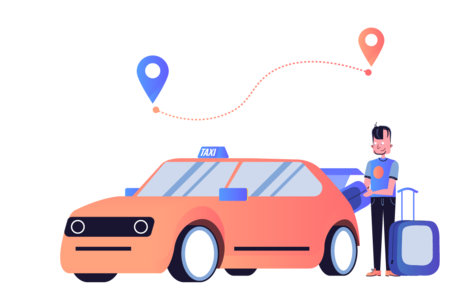
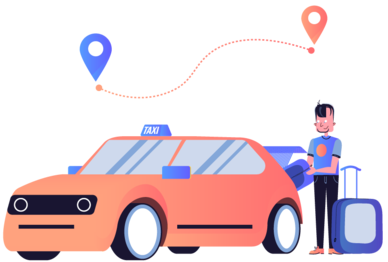
image size final2

diff --git a/index.html b/index.html
@@ -150,7 +150,7 @@
             <div class="row">
                 <div class="project shadow-large">
                     <div class="project-image">
-                        <img src="images/taxi.png" />
+                        <img src="images/cabeta.png" />
                     </div>
                     <!-- End .project-image -->
                     <div class="project-info">
